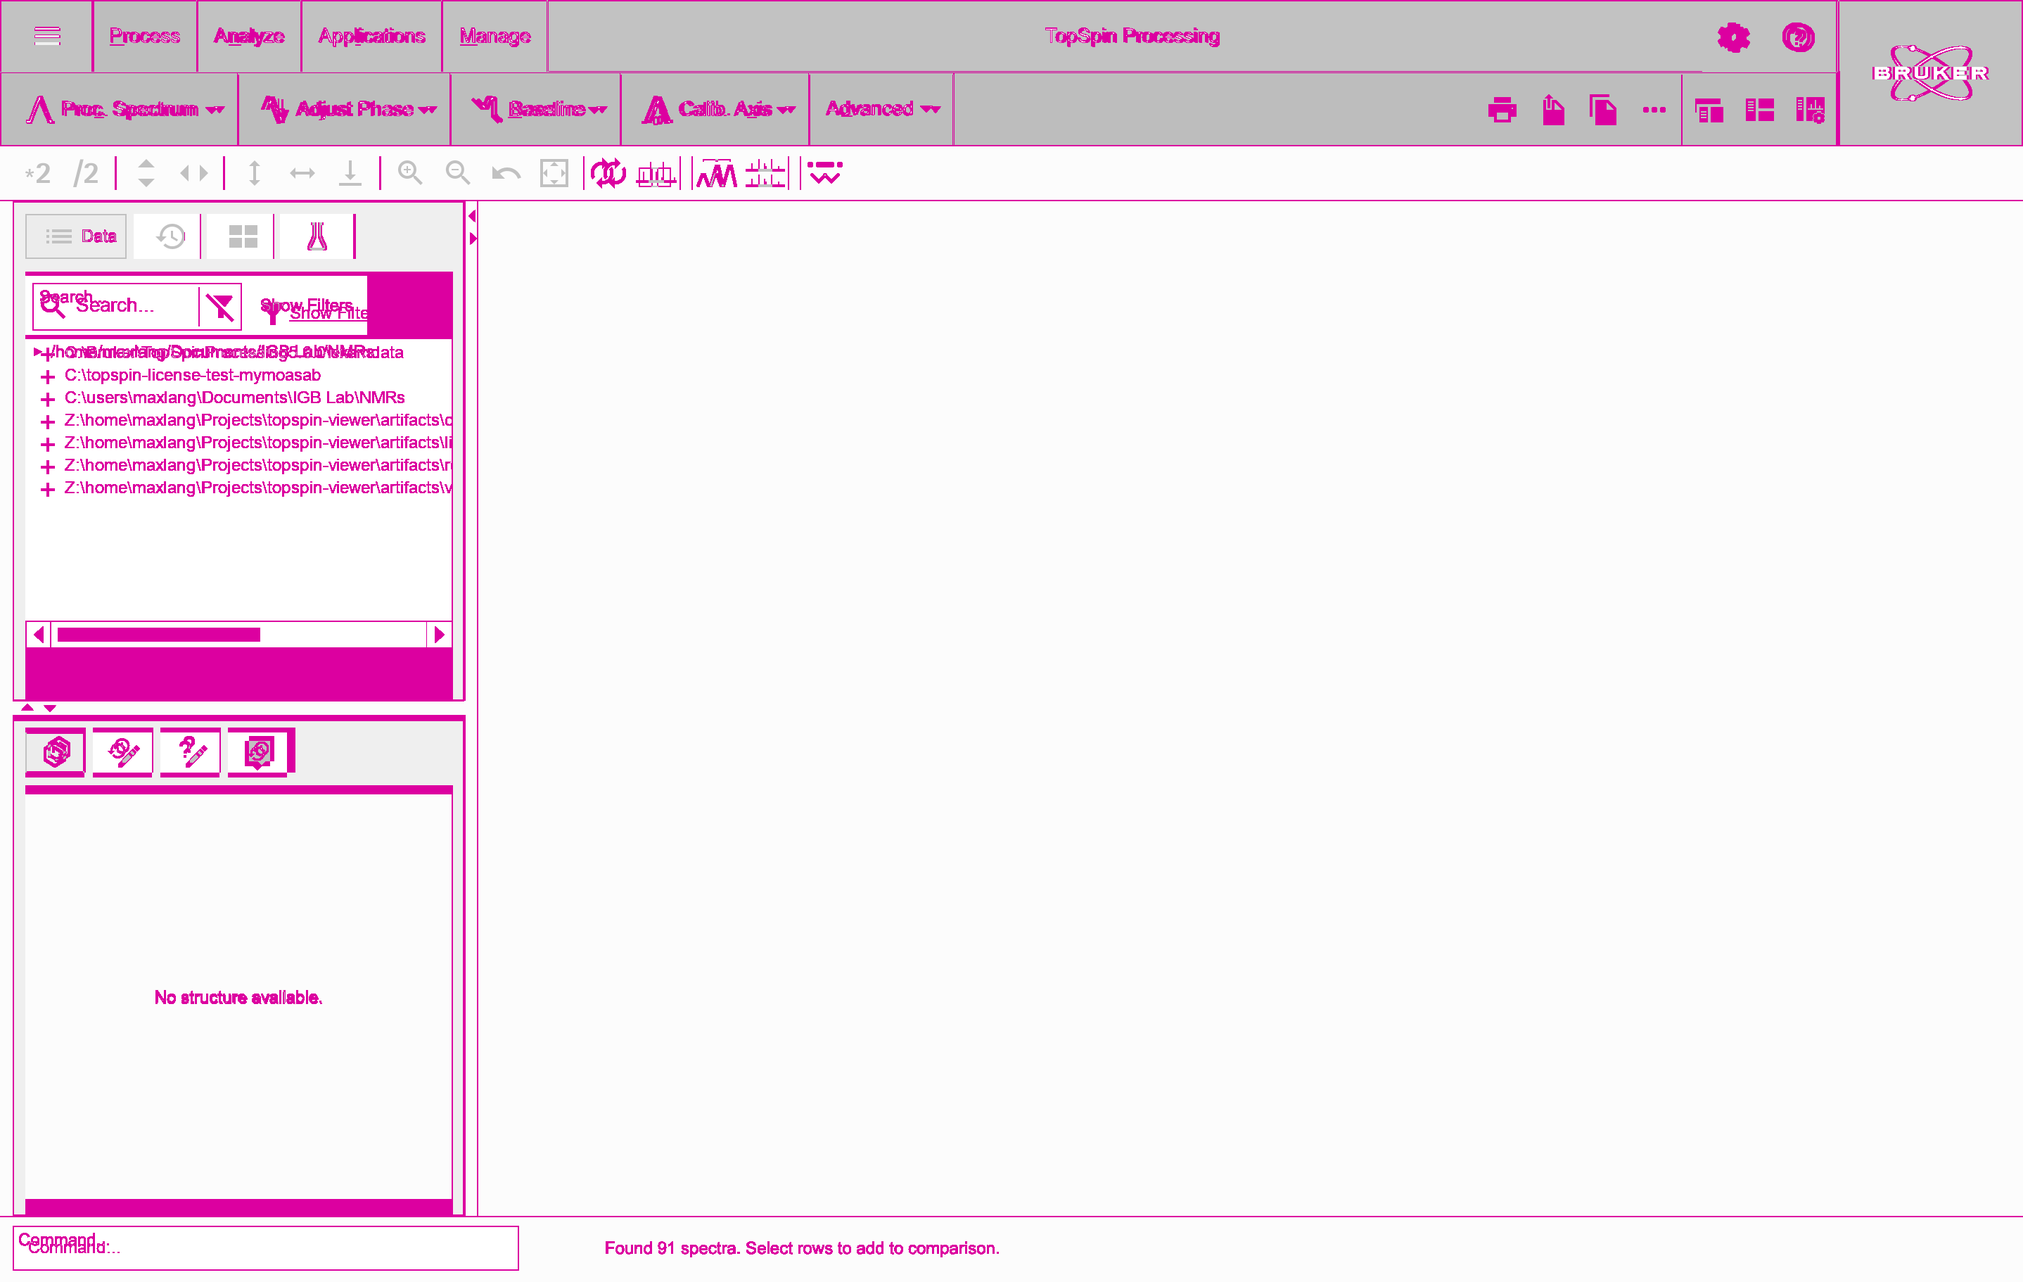
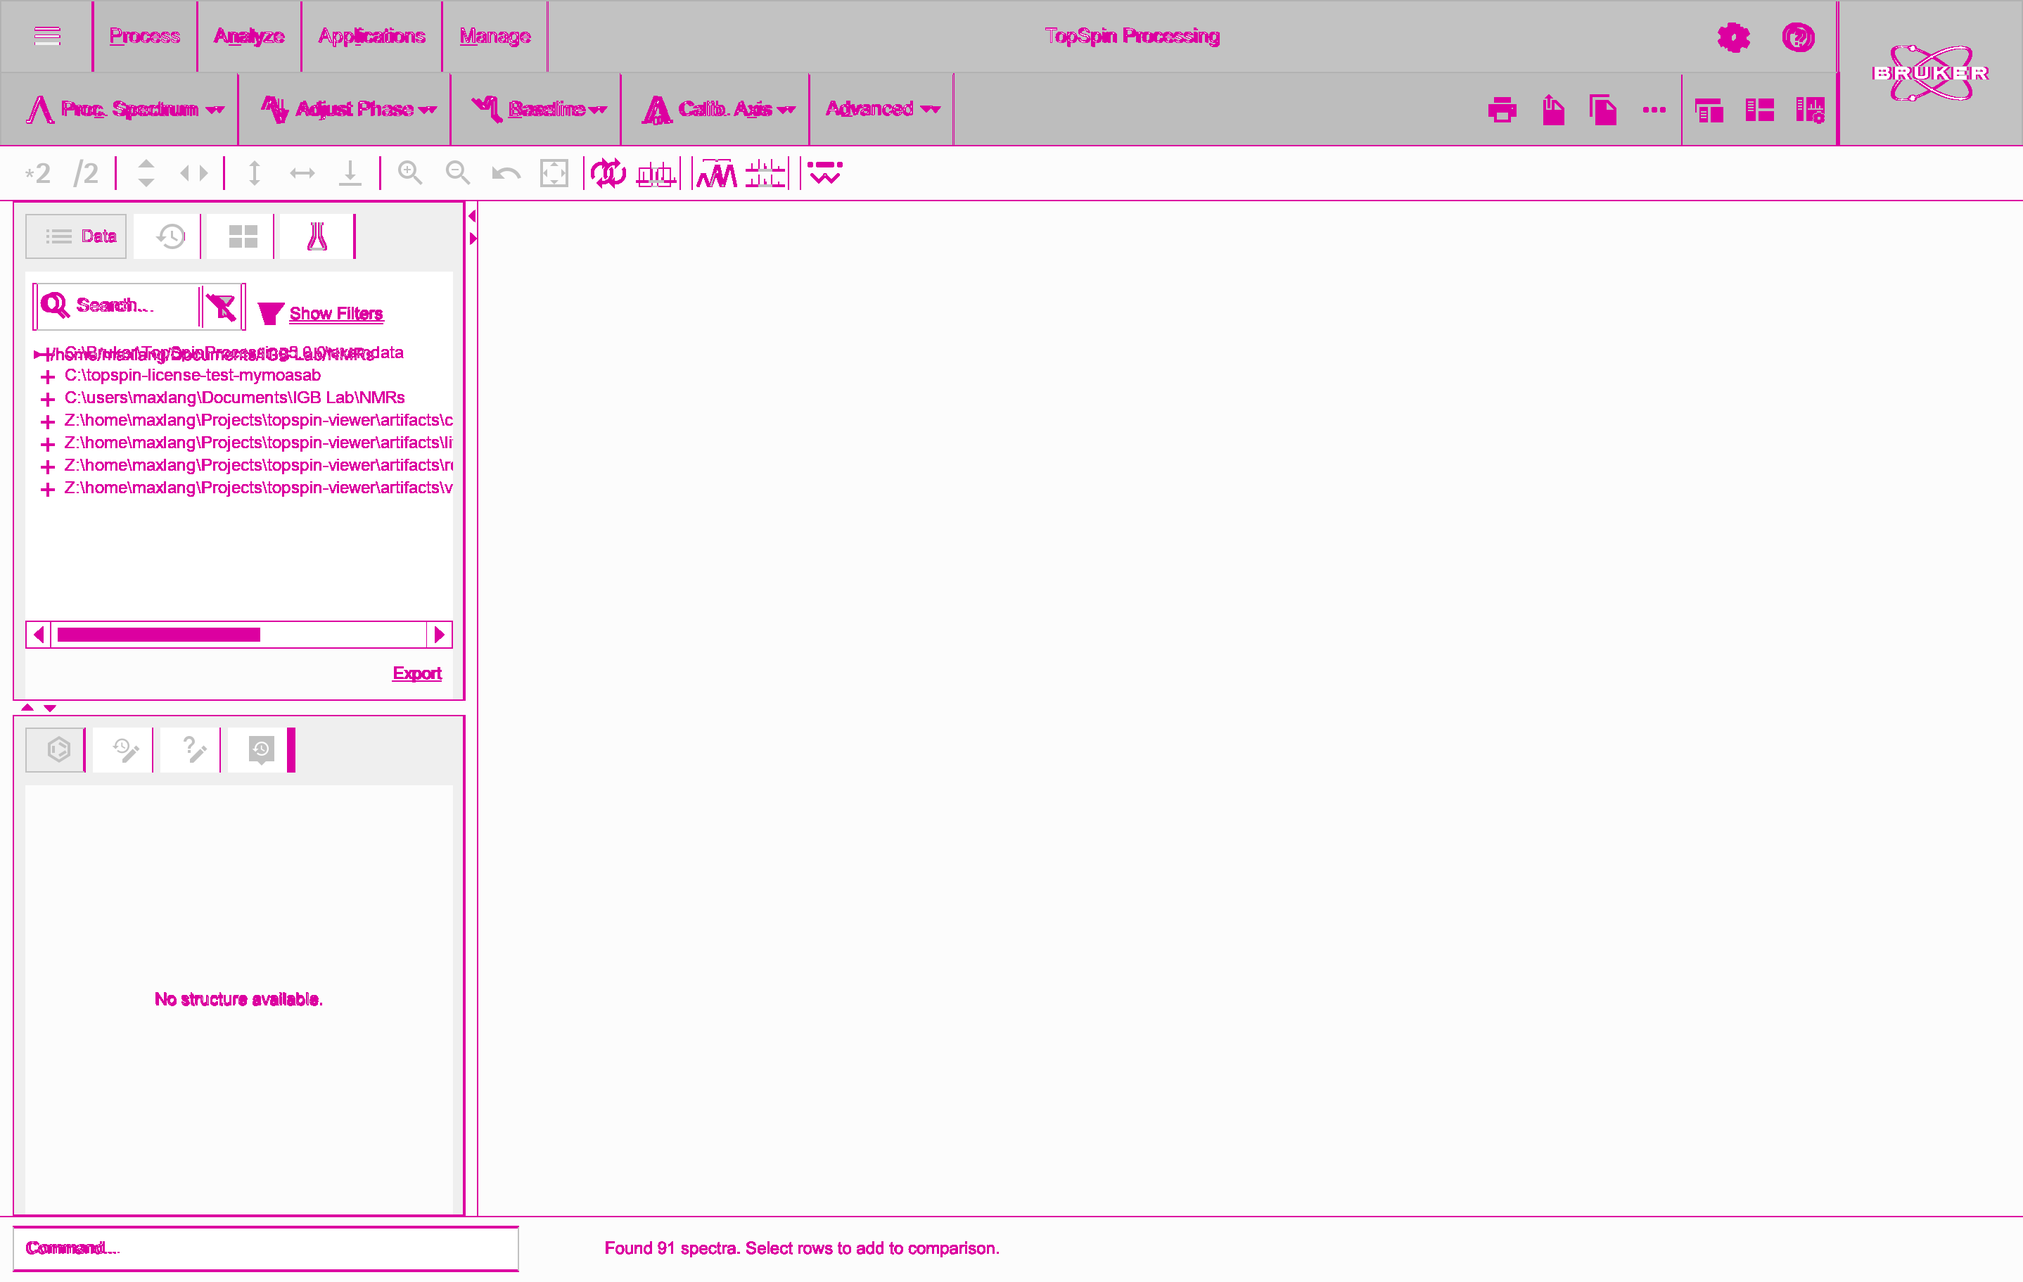
Match TopSpin browser geometry and restore folder shortcut in reference mode

diff --git a/rust/topspin_mode.rs b/rust/topspin_mode.rs
@@ -83,9 +83,9 @@ impl App {
                 let o = area.min;
                 let w = area.width();
                 ui.painter()
-                    .rect_filled(rect(o, 0., 51., w, 53.), 0., LOWER);
+                    .rect_filled(rect(o, 0., 52., w, 51.), 0., LOWER);
                 ui.painter().line_segment(
-                    [o + egui::vec2(0., 51.), o + egui::vec2(w, 51.)],
+                    [o + egui::vec2(0., 51.5), o + egui::vec2(w, 51.5)],
                     Stroke::new(1., Color32::BLACK),
                 );
                 let menu = button(
@@ -309,6 +309,12 @@ impl App {
                     }
                     x += width;
                 }
+                ui.painter().rect_stroke(
+                    area,
+                    0.,
+                    Stroke::new(1., Color32::BLACK),
+                    egui::StrokeKind::Inside,
+                );
             });
         egui::TopBottomPanel::top("topspin-tools")
             .exact_height(39.)
@@ -414,12 +420,20 @@ impl App {
             .show(ctx, |ui| {
                 let o = ui.max_rect().min;
                 let response = ui.put(
-                    rect(o, 9., 8., 360., 30.),
+                    rect(o, 9., 8., 360., 32.),
                     egui::TextEdit::singleline(&mut self.command)
+                        .min_size(egui::vec2(360., 32.))
+                        .margin(egui::vec2(9., 8.))
                         .font(egui::FontId::proportional(12.))
                         .hint_text(
                             egui::RichText::new("Command...").color(Color32::from_gray(204)),
                         ),
+                );
+                ui.painter().rect_stroke(
+                    rect(o, 9., 8., 360., 32.),
+                    0.,
+                    Stroke::new(1., Color32::from_gray(51)),
+                    egui::StrokeKind::Inside,
                 );
                 if response.lost_focus() && ctx.input(|i| i.key_pressed(egui::Key::Enter)) {
                     match self.command.trim() {
@@ -524,7 +538,107 @@ impl App {
         self.topspin_previous_range = Some(r);
         self.range = Some([m + (r[0] - m) * factor, m + (r[1] - m) * factor]);
     }
+    fn topspin_search(&mut self, ui: &mut egui::Ui) {
+        let (area, _) = ui.allocate_exact_size(egui::vec2(304., 50.), egui::Sense::hover());
+        ui.painter().rect_filled(area, 0., Color32::WHITE);
+        let o = area.min;
+        if self.focus_open {
+            let r = ui.put(
+                rect(o, 8., 8., 288., 34.),
+                egui::TextEdit::singleline(&mut self.path)
+                    .hint_text("Dataset folder · Enter to open"),
+            );
+            r.request_focus();
+            if ui.input(|i| i.key_pressed(egui::Key::Enter)) {
+                self.focus_open = false;
+                self.open(PathBuf::from(&self.path), ui.ctx().clone());
+            }
+            if ui.input(|i| i.key_pressed(egui::Key::Escape)) {
+                self.focus_open = false;
+                r.surrender_focus();
+            }
+            ui.advance_cursor_after_rect(area);
+            return;
+        }
+        let search = rect(o, 8., 8., 149., 34.);
+        ui.painter().rect_stroke(
+            search,
+            0.,
+            Stroke::new(1., Color32::from_gray(51)),
+            egui::StrokeKind::Inside,
+        );
+        let center = o + egui::vec2(21., 22.);
+        ui.painter()
+            .circle_stroke(center, 5.5, Stroke::new(2., Color32::DARK_GRAY));
+        ui.painter().line_segment(
+            [center + egui::vec2(4., 4.), center + egui::vec2(10., 10.)],
+            Stroke::new(2., Color32::DARK_GRAY),
+        );
+        ui.put(
+            rect(o, 38., 9., 88., 32.),
+            egui::TextEdit::singleline(&mut self.filter)
+                .frame(false)
+                .font(egui::FontId::proportional(12.))
+                .margin(egui::vec2(0., 8.))
+                .hint_text(egui::RichText::new("Search...").color(Color32::from_gray(204))),
+        );
+        ui.painter().line_segment(
+            [o + egui::vec2(126., 10.), o + egui::vec2(126., 40.)],
+            Stroke::new(1., Color32::from_gray(180)),
+        );
+        let clear = ui
+            .interact(
+                rect(o, 127., 9., 29., 32.),
+                ui.id().with("clear-filter"),
+                egui::Sense::click(),
+            )
+            .on_hover_text("Clear search");
+        icon(
+            ui,
+            rect(o, 131., 14., 21., 22.),
+            "clear-filter",
+            include_bytes!("../assets/icons/264cf4e7aa3e3ccb@2x.png"),
+        );
+        if clear.clicked() {
+            self.filter.clear();
+        }
+        let funnel = [
+            o + egui::vec2(165., 22.),
+            o + egui::vec2(181., 22.),
+            o + egui::vec2(176., 30.),
+            o + egui::vec2(176., 38.),
+            o + egui::vec2(170., 38.),
+            o + egui::vec2(170., 30.),
+        ];
+        ui.painter().add(egui::Shape::convex_polygon(
+            funnel.to_vec(),
+            Color32::DARK_GRAY,
+            Stroke::NONE,
+        ));
+        ui.scope_builder(
+            egui::UiBuilder::new().max_rect(rect(o, 184., 21., 110., 22.)),
+            |ui| {
+                ui.menu_button(
+                    egui::RichText::new("Show Filters")
+                        .color(Color32::from_rgb(24, 104, 169))
+                        .underline(),
+                    |ui| {
+                        let old = self.natural_sort;
+                        ui.selectable_value(&mut self.natural_sort, true, "Alphabetical (natural)");
+                        ui.selectable_value(&mut self.natural_sort, false, "Alphabetical (A–Z)");
+                        if old != self.natural_sort {
+                            data::sort_datasets(&mut self.found, self.natural_sort);
+                        }
+                    },
+                );
+            },
+        );
+        ui.advance_cursor_after_rect(area);
+    }
     pub(super) fn topspin_browser(&mut self, ctx: &egui::Context) {
+        if ctx.input(|i| i.modifiers.command && i.key_pressed(egui::Key::O)) {
+            self.focus_open = true;
+        }
         egui::SidePanel::left("topspin-browser")
             .exact_width(340.)
             .resizable(false)
@@ -535,16 +649,22 @@ impl App {
                 bottom: 0,
             }))
             .show(ctx, |ui| {
-                let h = (ui.available_height() - 10.) / 2.;
+                ui.spacing_mut().item_spacing.y = 0.;
+                let h = ((ui.available_height() - 10.) / 2.).floor().max(120.);
                 egui::Frame::new()
                     .fill(Color32::from_gray(204))
                     .stroke(Stroke::new(1., Color32::from_gray(142)))
-                    .inner_margin(8.)
+                    .inner_margin(egui::Margin {
+                        left: 8,
+                        right: 7,
+                        top: 8,
+                        bottom: 0,
+                    })
                     .show(ui, |ui| {
-                        ui.set_width(303.);
-                        ui.set_height(h - 18.);
+                        ui.set_width(304.);
+                        ui.set_height(h - 10.);
                         let (tabs, _) =
-                            ui.allocate_exact_size(egui::vec2(303., 32.), egui::Sense::hover());
+                            ui.allocate_exact_size(egui::vec2(304., 32.), egui::Sense::hover());
                         let o = tabs.min;
                         let selected = Color32::from_rgb(174, 200, 217);
                         let r = rect(o, 0., 0., 72., 32.);
@@ -620,44 +740,9 @@ impl App {
                             }
                         }
                         ui.add_space(9.);
-                        egui::Frame::new()
-                            .fill(Color32::WHITE)
-                            .inner_margin(6.)
-                            .show(ui, |ui| {
-                                if self.focus_open {
-                                    let r = ui.text_edit_singleline(&mut self.path);
-                                    r.request_focus();
-                                    if ctx.input(|i| i.key_pressed(egui::Key::Enter)) {
-                                        self.focus_open = false;
-                                        self.open(PathBuf::from(&self.path), ctx.clone());
-                                    }
-                                }
-                                ui.horizontal(|ui| {
-                                    ui.add_sized(
-                                        [149., 30.],
-                                        egui::TextEdit::singleline(&mut self.filter)
-                                            .hint_text("Search..."),
-                                    );
-                                    ui.menu_button("Show Filters", |ui| {
-                                        let old = self.natural_sort;
-                                        ui.selectable_value(
-                                            &mut self.natural_sort,
-                                            true,
-                                            "Alphabetical (natural)",
-                                        );
-                                        ui.selectable_value(
-                                            &mut self.natural_sort,
-                                            false,
-                                            "Alphabetical (A–Z)",
-                                        );
-                                        if old != self.natural_sort {
-                                            data::sort_datasets(&mut self.found, self.natural_sort);
-                                        }
-                                    });
-                                });
-                            });
+                        self.topspin_search(ui);
                         egui::Frame::new().fill(Color32::WHITE).show(ui, |ui| {
-                            ui.set_min_size(egui::vec2(303., h - 133.));
+                            ui.set_min_size(egui::vec2(304., h - 138.));
                             let paths = self
                                 .found
                                 .iter()
@@ -670,7 +755,8 @@ impl App {
                                 .collect::<Vec<_>>();
                             let mut open = None;
                             egui::ScrollArea::both()
-                                .max_height(h - 135.)
+                                .max_height(h - 138.)
+                                .auto_shrink([false, false])
                                 .show(ui, |ui| {
                                     egui::CollapsingHeader::new(if self.path.is_empty() {
                                         "Datasets"
@@ -704,22 +790,38 @@ impl App {
                                 self.sidebar_open(p, stack, ctx.clone());
                             }
                         });
-                        ui.with_layout(egui::Layout::right_to_left(egui::Align::Center), |ui| {
-                            if ui.link("Export").clicked() {
-                                self.select_tool(workspace::Tool::Export);
-                            }
-                        });
+                        let (footer, _) =
+                            ui.allocate_exact_size(egui::vec2(304., 37.), egui::Sense::hover());
+                        ui.painter().rect_filled(footer, 0., BG);
+                        ui.scope_builder(
+                            egui::UiBuilder::new().max_rect(footer.shrink2(egui::vec2(8., 0.))),
+                            |ui| {
+                                ui.with_layout(
+                                    egui::Layout::right_to_left(egui::Align::Center),
+                                    |ui| {
+                                        if ui.link("Export").clicked() {
+                                            self.select_tool(workspace::Tool::Export);
+                                        }
+                                    },
+                                );
+                            },
+                        );
                     });
                 ui.add_space(10.);
                 egui::Frame::new()
                     .fill(Color32::from_gray(204))
                     .stroke(Stroke::new(1., Color32::from_gray(142)))
-                    .inner_margin(8.)
+                    .inner_margin(egui::Margin {
+                        left: 8,
+                        right: 7,
+                        top: 8,
+                        bottom: 0,
+                    })
                     .show(ui, |ui| {
-                        ui.set_width(303.);
-                        ui.set_height(h - 18.);
+                        ui.set_width(304.);
+                        ui.set_height(h - 10.);
                         let (tabs, _) =
-                            ui.allocate_exact_size(egui::vec2(303., 32.), egui::Sense::hover());
+                            ui.allocate_exact_size(egui::vec2(304., 32.), egui::Sense::hover());
                         let o = tabs.min;
                         let items: [(&str, &[u8]); 4] = [
                             (
@@ -755,12 +857,7 @@ impl App {
                                 12.,
                             )
                             .on_hover_text(name);
-                            icon(
-                                ui,
-                                egui::Rect::from_center_size(r.center(), egui::vec2(24., 24.)),
-                                name,
-                                bytes,
-                            );
+                            icon(ui, rect(o, 12. + i as f32 * 48., 4., 24., 24.), name, bytes);
                             if i == 0 {
                                 ui.painter().rect_stroke(
                                     r,
@@ -779,7 +876,7 @@ impl App {
                         }
                         ui.add_space(9.);
                         let (r, _) = ui.allocate_exact_size(
-                            egui::vec2(303., (h - 68.).max(1.)),
+                            egui::vec2(304., (h - 50.).max(1.)),
                             egui::Sense::hover(),
                         );
                         ui.painter().rect_filled(r, 0., BG);

diff --git a/TOPSPIN-APPEARANCE-VERIFICATION.md b/TOPSPIN-APPEARANCE-VERIFICATION.md
@@ -4,7 +4,7 @@
 
 The viewer now has a persistent **Appearance → TopSpin** mode which switches live, including the ribbon, browser, command footer, fonts, palette, plot margins, spectrum title and axes. Gruvbox, Dark and Light remain available. This is a native Rust interface using the viewer's processing and project model.
 
-**The requested exact visual match is not yet achieved.** The full empty-client comparison has 95.3784% identical pixels; the large blank workspace contributes substantially to that figure. The screenshot comparison is deliberately strict and reports `pixel_exact: false`. Similar background pixels are not evidence of equivalent controls or workflows. This appearance check does not establish numerical processing or export parity.
+**The requested exact visual match is not yet achieved.** The full empty-client comparison has 97.3887% identical pixels; the large blank workspace contributes substantially to that figure. The screenshot comparison is deliberately strict and reports `pixel_exact: false`. Similar background pixels are not evidence of equivalent controls or workflows. This appearance check does not establish numerical processing or export parity.
 
 ## Evidence
 
@@ -22,7 +22,7 @@ A nonzero exit status means the images differ. `--allow-differences` is availabl
 
 ## Remaining differences
 
-- Font rasterization, widget borders, spacing and browser search/tree/footer geometry still differ.
+- Font rasterization, some widget borders and spacing, tree controls and scrollbar styling still differ. The browser search strip, pane sizes, split position, lower placeholder and export strip now use measured reference dimensions.
 - Browser roots and status text reflect the native application's actual contents.
 - Unsupported TopSpin features remain absent, following the existing requirement to hide unimplemented controls. Their ribbon space is therefore different.
 - Editing uses the native docked tools. Integral labels and fixed-baseline behavior retain the requested native interaction design.
@@ -30,6 +30,12 @@ A nonzero exit status means the images differ. `--allow-differences` is availabl
 
 ## Functional checks
 
-The release application was exercised through real menu clicks: TopSpin → Gruvbox → TopSpin in the same process, with saved settings read back after each change. The isolated configuration also restored the saved mode on launch. A reference dataset was opened from its path and captured. Test configuration was isolated from the user's appearance settings.
+The release application was exercised through real menu clicks: TopSpin → Gruvbox → TopSpin in the same process, with saved settings read back after each change. The isolated configuration also restored the saved mode on launch. A reference dataset was opened through Ctrl+O and Enter and captured. Search text entry, clearing the filter and the natural/A–Z sort menu were also exercised in the actual window. Test configuration was isolated from the user's appearance settings.
 
 `cargo test`: 51 passed, 1 ignored (opt-in local laboratory export test). New tests verify reference panel geometry, toolbar actions, appearance preference round trips and bit-preservation of processing settings, spectrum samples and integral values across live appearance switches. `cargo fmt --check`, `cargo clippy --all-targets -- -D warnings`, and the optimized release build passed.
+
+## Browser refinement
+
+The second screenshot pass improved the full-client identical-pixel count from 95.3784% to 97.3887%, and the browser region from 83.3512% to 93.2402%. Both comparisons use the same reference, size and unmasked regions. The large blank workspace still makes the overall percentage more favorable than the individual controls. Unsupported controls remain hidden.
+
+The search strip now has the measured full width, magnifier, clear control and filter menu. The reference pane split and export strip have fixed measured spacing. The command input has an explicit border and padding. Ctrl+O now opens the folder field in TopSpin mode too, and Escape cancels it.
